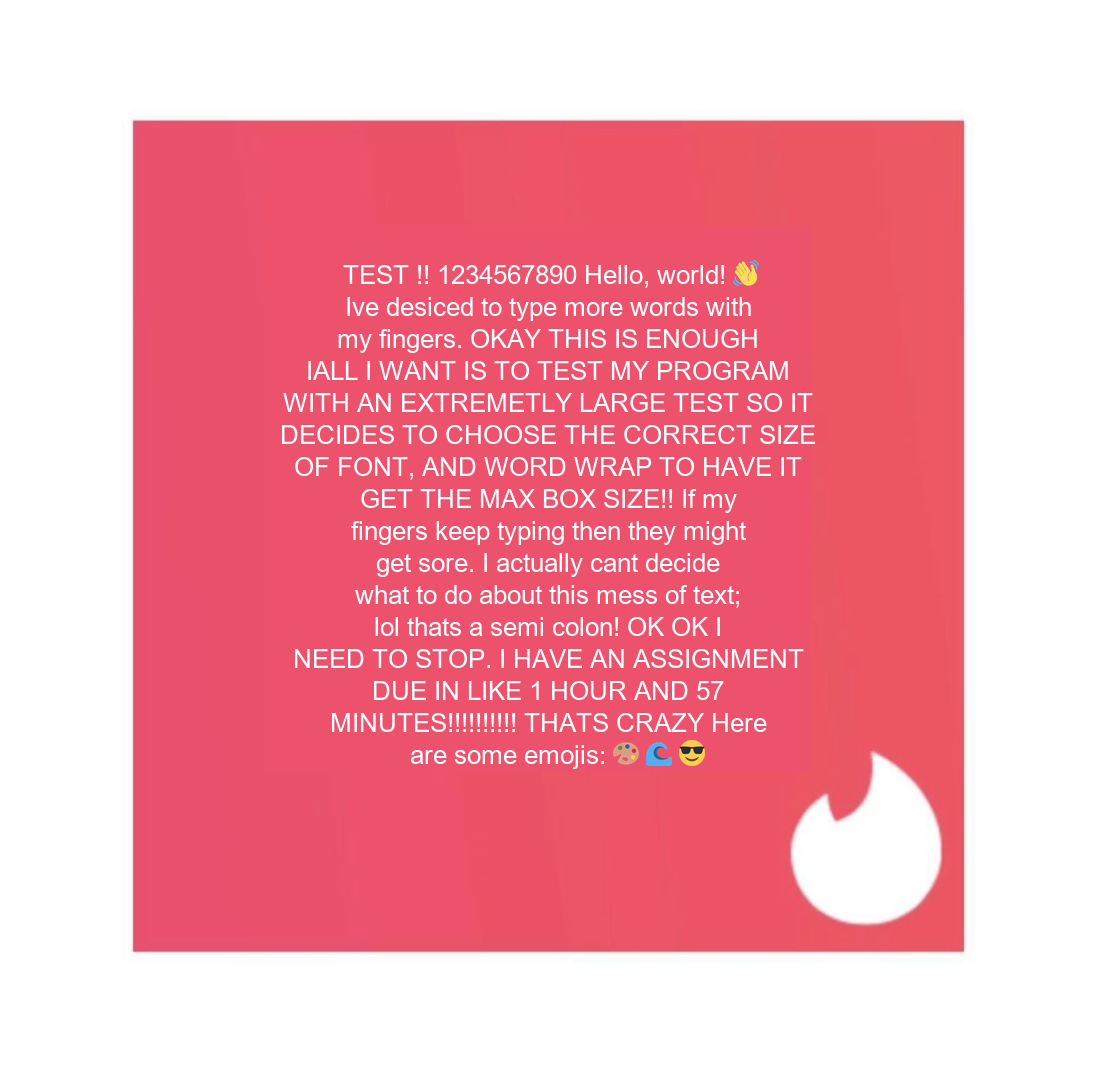
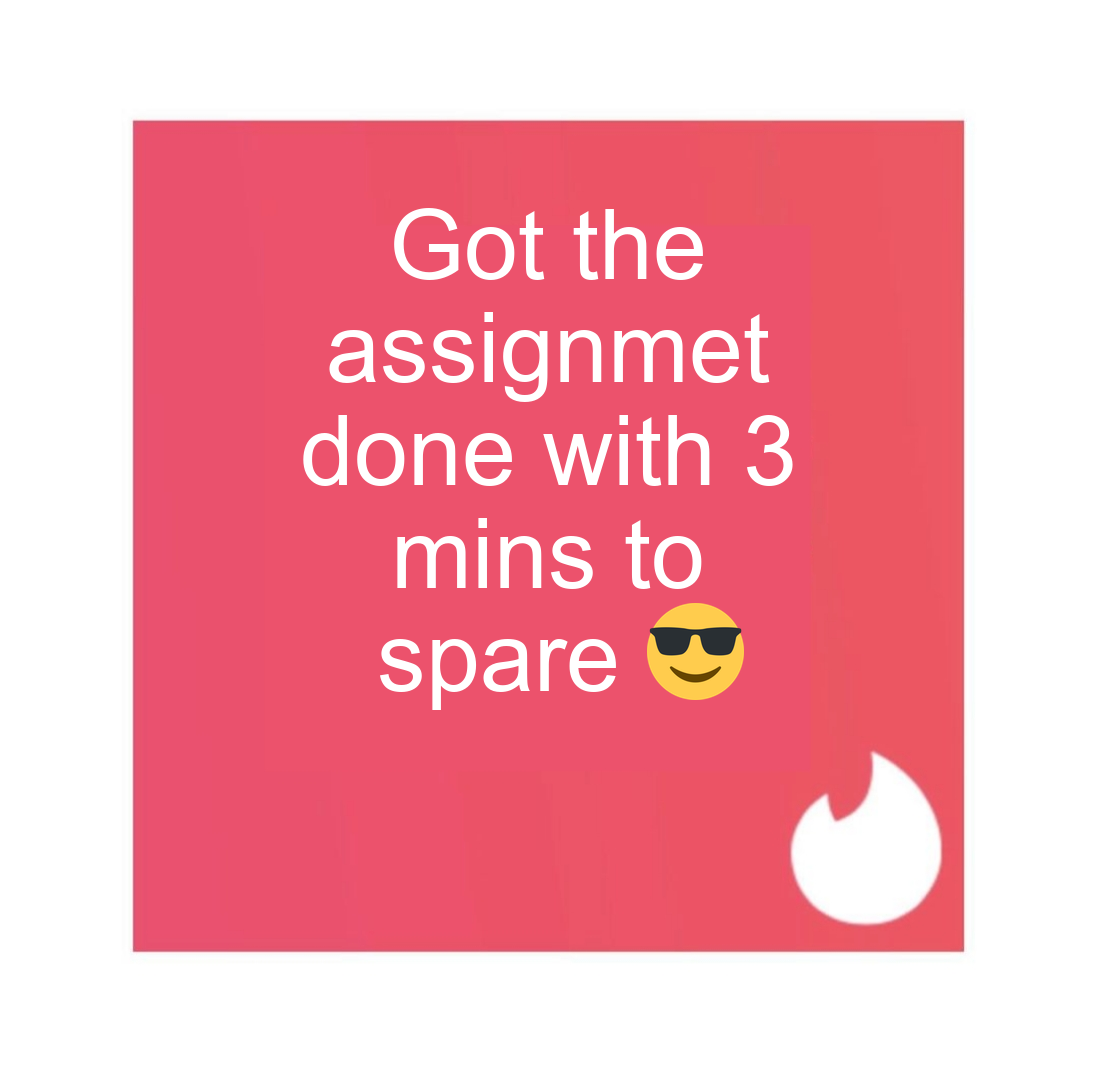
made the google sheet integration

Changed region(s): [[0.2479, 0.1833, 0.7438, 0.7333]]

diff --git a/main.py b/main.py
@@ -1,6 +1,28 @@
 from lib import TrinderImage
+import pygsheets
+from datetime import datetime
 
-test_image = TrinderImage('''TEST !! 1234567890 Hello, world! 👋 Ive desiced to type more words with my fingers. OKAY THIS IS ENOUGH IALL I WANT IS TO TEST MY PROGRAM WITH AN EXTREMETLY LARGE TEST SO IT DECIDES TO CHOOSE THE CORRECT SIZE OF FONT, AND WORD WRAP TO HAVE IT GET THE MAX BOX SIZE!! If my fingers keep typing then they might get sore. I actually cant decide what to do about this mess of text; lol thats a semi colon! OK OK I NEED TO STOP. I HAVE AN ASSIGNMENT DUE IN LIKE 1 HOUR AND 57 MINUTES!!!!!!!!!! THATS CRAZY Here are some emojis: 🎨 🌊 😎''',
-                          "data/background.jpeg",
-                          "data/Arial.ttf",
-                          "output/image.png")
+client = pygsheets.authorize(service_account_file="auto-trinder-e79abbfcea61.json") 
+spreadsheet = client.open(client.spreadsheet_titles()[0]) 
+
+wks = spreadsheet.sheet1
+title = True
+for row in wks:
+    if title: 
+        title = False
+        continue
+    
+    TrinderImage(row[2],
+                  "data/background.jpeg",
+                  "data/Arial.ttf",
+                  f"output/{datetime.now()}.png")
+
+
+# print(client.spreadsheet_titles()) 
+
+# test_image = TrinderImage('''Got the assignmet done with 3 mins to spare 😎''',
+#                           "data/background.jpeg",
+#                           "data/Arial.ttf",
+#                           "output/image.png")
+
+
